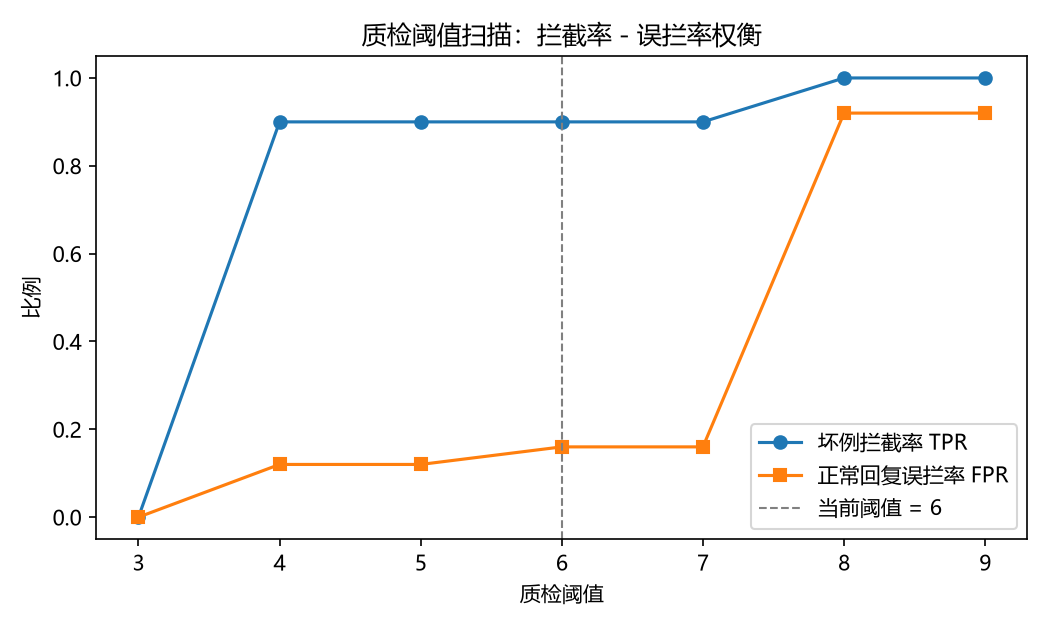
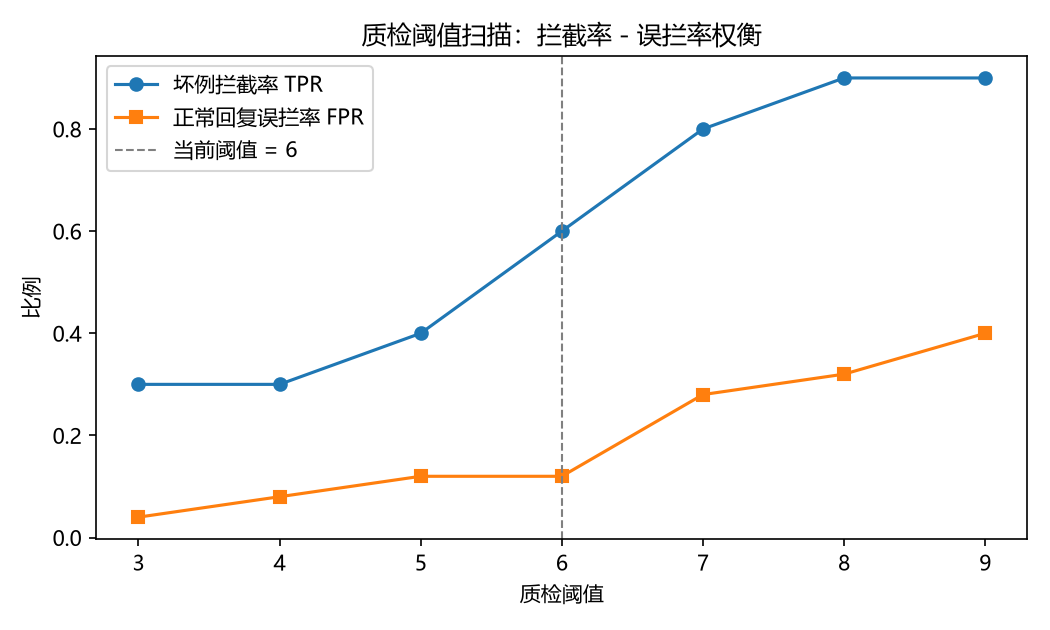
feat: 阈值扫描定标 6→8（TPR 60%→90%），README 评测数字与接地质检叙事回填

diff --git a/evals/run_eval.py b/evals/run_eval.py
@@ -129,13 +129,35 @@ def stage_gate(llm, data, workers=None):
     print(f"\ngate 完成，共 {len(cache)} 条（缓存于 {GATE_CACHE}）")
 
 
+def _bad_case_evidence(query: str) -> str:
+    """坏例评测需要与生产一致的证据输入：按关键词路由到对应 Agent 的数据匹配器"""
+    from multi_agents.billing_agent import BillingAgent
+    from multi_agents.complaint_agent import ComplaintAgent
+    from multi_agents.general_agent import GeneralAgent
+    from multi_agents.product_agent import ProductAgent
+    from multi_agents.tech_agent import TechAgent
+
+    routes = [
+        (("退款", "发票", "支付", "优惠券", "账单"), BillingAgent(), "_match_billing_info"),
+        (("耳机", "机器人", "音箱", "错误代码", "开机", "WiFi"), TechAgent(), "_match_tech_info"),
+        (("羽绒服", "显示器", "手机壳", "手表"), ProductAgent(), "_match_products"),
+        (("投诉", "差评", "态度"), ComplaintAgent(), "_match_complaint_info"),
+        (("工作时间", "发货", "快递", "货到付款", "新用户", "优惠活动"), GeneralAgent(), "_match_service_info"),
+    ]
+    for keywords, agent, method in routes:
+        if any(k in query for k in keywords):
+            return getattr(agent, method)(query)
+    return ""
+
+
 def stage_bad(llm, data):
-    """构造坏例的质检打分（断点续跑）"""
+    """构造坏例的质检打分（断点续跑）；证据输入与生产链路一致（接地质检）"""
     out = load_json(BAD_CACHE, [])
     for idx, bc in enumerate(data["bad_cases"]):
         if any(x["question"] == bc["question"] and x["flaw"] == bc["flaw"] for x in out):
             continue
-        resp = llm.invoke(build_judge_messages(bc["question"], bc["reply"]))
+        evidence = _bad_case_evidence(bc["question"])
+        resp = llm.invoke(build_judge_messages(bc["question"], bc["reply"], evidence=evidence))
         score, reason = parse_judge_output(getattr(resp, "content", ""))
         out.append(
             {"question": bc["question"], "flaw": bc["flaw"], "score": score, "reason": reason}

diff --git a/config.py b/config.py
@@ -28,7 +28,8 @@ VERSION = "1.0.0"
 
 # 回复质检与人工接管
 QUALITY_CHECK_ENABLED = os.getenv("QUALITY_CHECK_ENABLED", "true").lower() in ("1", "true", "yes")
-QUALITY_THRESHOLD = float(os.getenv("QUALITY_THRESHOLD", "6.0"))
+# 经阈值扫描定标（见 README 评测结果）：8 为推荐工作点，漏拦代价高于误拦
+QUALITY_THRESHOLD = float(os.getenv("QUALITY_THRESHOLD", "8.0"))
 
 # 意图分类专用模型（可选轻量档，降延迟降成本）；留空与 OPENAI_MODEL 一致
 CLASSIFY_MODEL = os.getenv("CLASSIFY_MODEL", "")

diff --git a/tests/test_decision_trace.py b/tests/test_decision_trace.py
@@ -24,7 +24,7 @@ def test_trace_pass_path(graph_env):
     assert steps == ["classify", "quality_check", "final_response"]
     assert state["decision_trace"][0]["query_type"] == "billing"
     assert state["decision_trace"][1]["score"] == 9.0
-    assert state["decision_trace"][1]["threshold"] == 6.0
+    assert state["decision_trace"][1]["threshold"] == 8.0
     assert state["decision_trace"][2]["agent"] == "账单专家"
 
 
